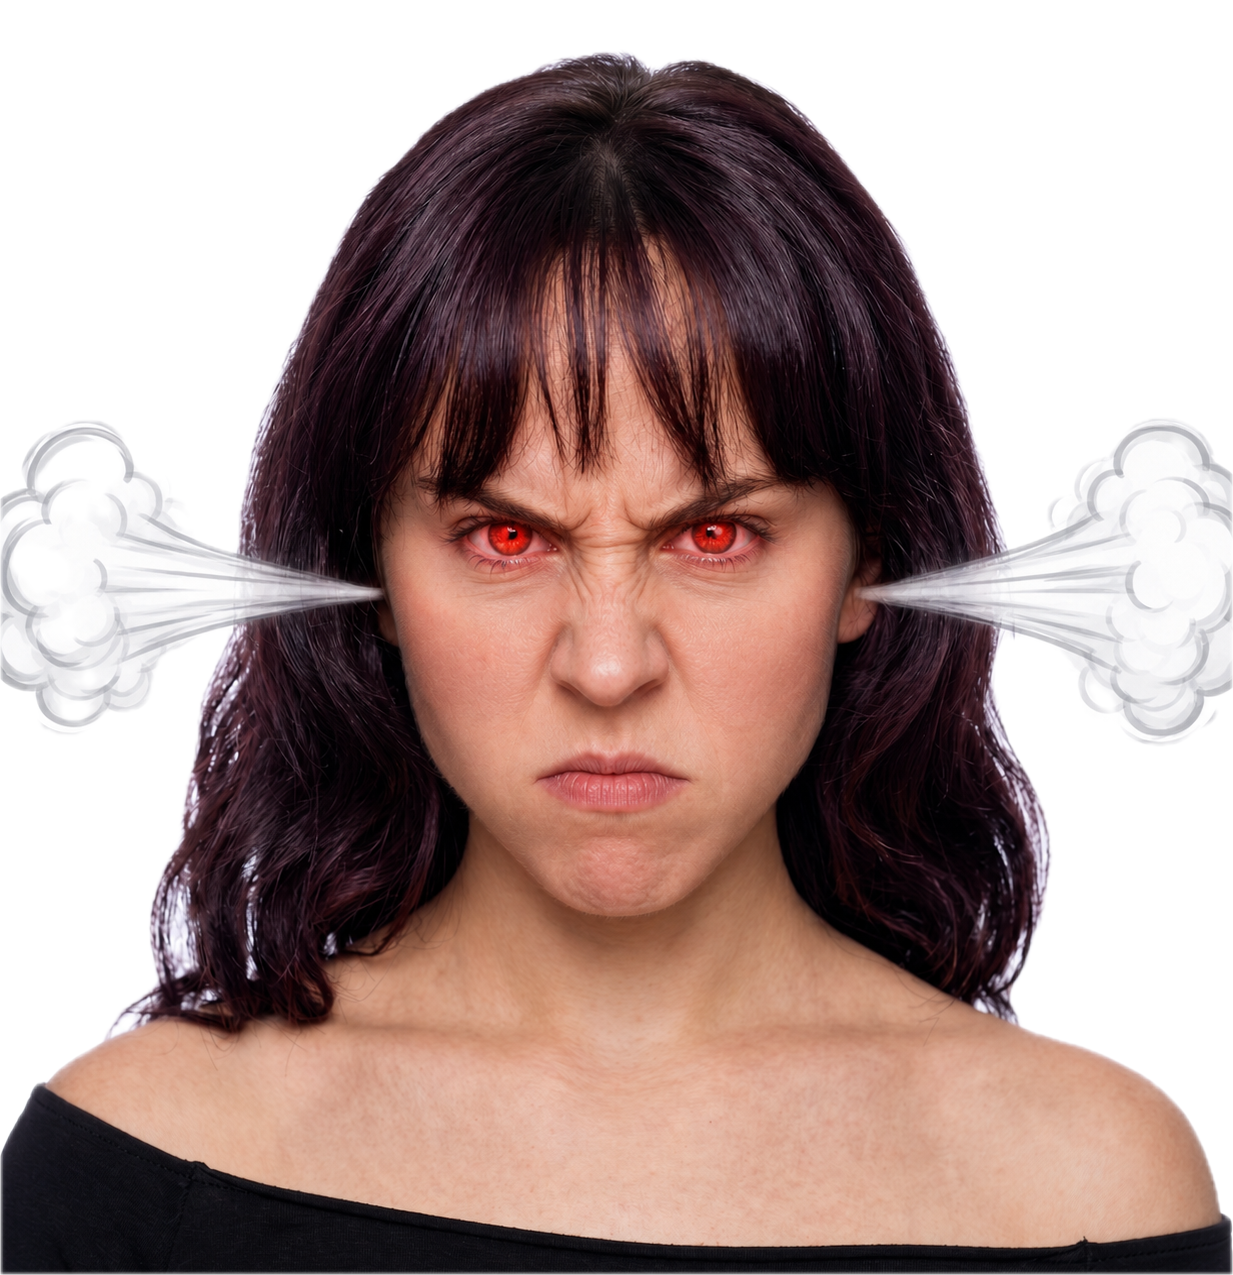
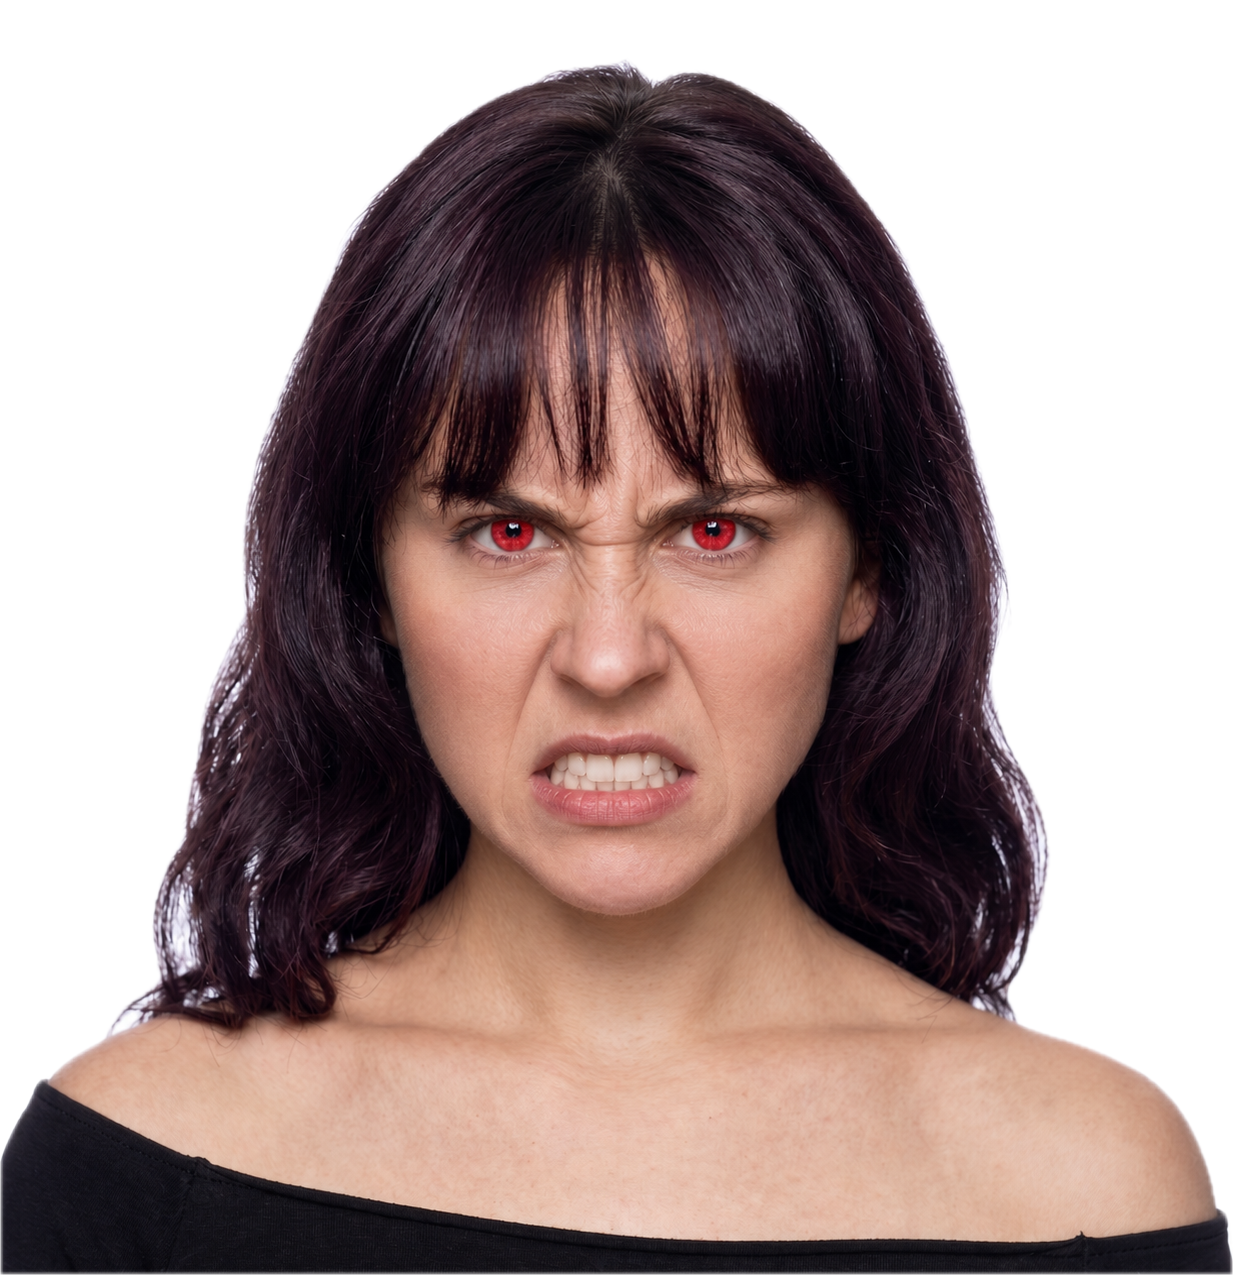
Clean angry regen with properly aligned animated steam; landing polish
- angry.png regenerated with no baked-in steam (teeth gritted, red eyes)
- steam extracted from the old angry via luminance masking so hair drops
  out, positioned at ear level; fixed .avatar img{height:100%} bleeding
  into the steam sprites which pushed them down to shoulder level
- landing: spelling fixed to 'compatible', footer strip removed, stack
  vertically centered, photo capped so fullscreen doesn't clip it

diff --git a/survey.html b/survey.html
@@ -1,1 +1,1 @@
-<!doctype html><meta charset="utf-8"><meta name="viewport" content="width=device-width,initial-scale=1"><style>*{box-sizing:border-box}body{margin:0;font-family:Arial;background:#edfaff}.stars{position:fixed;inset:0;width:100%;height:100%;object-fit:cover;z-index:-1}.map{height:160px;position:relative}.route{position:absolute;left:max(4%,52px);right:max(4%,52px);top:62px;height:20px;border-radius:12px;background:linear-gradient(#ffffff,#d9dbe2 45%,#9fa3af);border:2px solid #828692;box-shadow:0 2px 3px rgba(0,0,0,.25)}.node{position:absolute;top:72px;transform:translate(-50%,-50%);width:58px;height:58px;border-radius:50%;background:radial-gradient(circle at 35% 30%,#ffd9e9,#f772b0 30%,#f14e98 60%,#a81260 85%);border:6px solid #e9ebf2;box-shadow:0 0 0 2px #828692,0 2px 4px rgba(0,0,0,.3),inset 0 -4px 8px rgba(0,0,0,.35);display:flex;align-items:center;justify-content:center;color:#fff;font-weight:bold;font-size:22px;text-shadow:0 2px 3px rgba(0,0,0,.6)}.node.active{transform:translate(-50%,-50%) scale(1.18);box-shadow:0 0 0 2px #828692,0 0 14px 5px rgba(241,78,152,.85),0 2px 4px rgba(0,0,0,.3),inset 0 -4px 8px rgba(0,0,0,.35)}.lbl{position:absolute;top:112px;transform:translateX(-50%);font-weight:bold;font-size:14px;letter-spacing:1px;text-transform:uppercase;color:#fff;text-shadow:0 1px 0 #a81260,0 2px 4px rgba(0,0,0,.45);white-space:nowrap}.lbl.n1{left:1%;transform:none}.lbl.n5{left:auto;right:1%;transform:none}.n1{left:max(4%,52px)}.n2{left:27%}.n3{left:50%}.n4{left:73%}.n5{left:calc(100% - max(4%,52px))}.page{height:calc(100vh - 160px);position:relative}.avatar{position:absolute;left:50%;bottom:0;transform:translateX(-50%);height:78vh}.avatar img{height:100%;object-fit:contain}.steam{position:absolute;display:none;pointer-events:none;height:auto}.avatar.angry .steam{display:block}.sL{left:0;top:30.6%;width:19.5%;transform-origin:100% 50%;animation:puffL 1s ease-in-out infinite}.sR{left:79.9%;top:31.4%;width:20.1%;transform-origin:0 50%;animation:puffR 1s ease-in-out infinite;animation-delay:.45s}@keyframes puffL{50%{transform:scale(1.2) translateX(-3%)}}@keyframes puffR{50%{transform:scale(1.2) translateX(3%)}}.card{position:absolute;right:7%;top:14%;width:280px;padding:17px;background:#ffd9e9;border:3px solid #f14e98;border-radius:18px}.card input{width:100%;padding:10px;margin:5px 0 13px;border:2px solid #f7a8cc;border-radius:8px}.card button{width:100%;padding:13px;background:#f14e98;color:white;border:0;border-radius:10px;font-weight:bold}.moods{position:absolute;left:5%;bottom:5%;padding:12px;background:#ffd9e9;border:3px solid #f14e98;border-radius:15px}.moods button{margin:3px;border-radius:7px;border:2px solid #f14e98;background:white;padding:7px;cursor:pointer}.moods button.on{background:#f14e98;color:#fff}</style><video class="stars" autoplay muted loop playsinline><source src="stars.mp4"></video><nav class="map"><div class="route"></div><i class="node n1 active">1</i><i class="node n2">2</i><i class="node n3">3</i><i class="node n4">4</i><i class="node n5">5</i><em class="lbl n1">astrology</em><em class="lbl n2">book test</em><em class="lbl n3">swaggy genius</em><em class="lbl n4">height</em><em class="lbl n5">final</em></nav><main class="page"><div class="avatar" id="av"><img id="anna" src="assets/portrait-cutout.png"><img class="steam sL" src="assets/steam-left.png" alt=""><img class="steam sR" src="assets/steam-right.png" alt=""></div><form class="card"><b>BIRTH DATE</b><input placeholder="MM / DD / YYYY"><b>BIRTH TIME</b><input placeholder="HH:MM AM / PM"><b>BIRTH LOCATION</b><input placeholder="start typing a city"><button>NEXT →</button></form><div class="moods">EMOTION BETA<br><button type="button" class="on" data-img="portrait-cutout">neutral</button><button type="button" data-img="love">♥ love</button><button type="button" data-img="sad">sad</button><button type="button" data-img="scared">scared</button><button type="button" data-img="angry">😤 angry</button></div></main><script>document.querySelectorAll('.moods button').forEach(b=>b.addEventListener('click',()=>{document.getElementById('anna').src='assets/'+b.dataset.img+'.png';document.getElementById('av').classList.toggle('angry',b.dataset.img==='angry');document.querySelectorAll('.moods button').forEach(x=>x.classList.remove('on'));b.classList.add('on')}));var h=location.hash.slice(1);if(h){var hb=document.querySelector('.moods button[data-img="'+h+'"]');if(hb)hb.click()}</script>
+<!doctype html><meta charset="utf-8"><meta name="viewport" content="width=device-width,initial-scale=1"><style>*{box-sizing:border-box}body{margin:0;font-family:Arial;background:#edfaff}.stars{position:fixed;inset:0;width:100%;height:100%;object-fit:cover;z-index:-1}.map{height:160px;position:relative}.route{position:absolute;left:max(4%,52px);right:max(4%,52px);top:62px;height:20px;border-radius:12px;background:linear-gradient(#ffffff,#d9dbe2 45%,#9fa3af);border:2px solid #828692;box-shadow:0 2px 3px rgba(0,0,0,.25)}.node{position:absolute;top:72px;transform:translate(-50%,-50%);width:58px;height:58px;border-radius:50%;background:radial-gradient(circle at 35% 30%,#ffd9e9,#f772b0 30%,#f14e98 60%,#a81260 85%);border:6px solid #e9ebf2;box-shadow:0 0 0 2px #828692,0 2px 4px rgba(0,0,0,.3),inset 0 -4px 8px rgba(0,0,0,.35);display:flex;align-items:center;justify-content:center;color:#fff;font-weight:bold;font-size:22px;text-shadow:0 2px 3px rgba(0,0,0,.6)}.node.active{transform:translate(-50%,-50%) scale(1.18);box-shadow:0 0 0 2px #828692,0 0 14px 5px rgba(241,78,152,.85),0 2px 4px rgba(0,0,0,.3),inset 0 -4px 8px rgba(0,0,0,.35)}.lbl{position:absolute;top:112px;transform:translateX(-50%);font-weight:bold;font-size:14px;letter-spacing:1px;text-transform:uppercase;color:#fff;text-shadow:0 1px 0 #a81260,0 2px 4px rgba(0,0,0,.45);white-space:nowrap}.lbl.n1{left:1%;transform:none}.lbl.n5{left:auto;right:1%;transform:none}.n1{left:max(4%,52px)}.n2{left:27%}.n3{left:50%}.n4{left:73%}.n5{left:calc(100% - max(4%,52px))}.page{height:calc(100vh - 160px);position:relative}.avatar{position:absolute;left:50%;bottom:0;transform:translateX(-50%);height:78vh}.avatar img{height:100%;object-fit:contain}.avatar img.steam{position:absolute;display:none;pointer-events:none;height:auto;object-fit:unset}.avatar.angry .steam{display:block}.sL{left:4.7%;top:35.9%;width:24.3%;transform-origin:95% 44%;animation:puffL 1s ease-in-out infinite}.sR{left:71.6%;top:36.1%;width:22.5%;transform-origin:3% 42%;animation:puffR 1s ease-in-out infinite;animation-delay:.45s}@keyframes puffL{50%{transform:scale(1.2) translateX(-3%)}}@keyframes puffR{50%{transform:scale(1.2) translateX(3%)}}.card{position:absolute;right:7%;top:14%;width:280px;padding:17px;background:#ffd9e9;border:3px solid #f14e98;border-radius:18px}.card input{width:100%;padding:10px;margin:5px 0 13px;border:2px solid #f7a8cc;border-radius:8px}.card button{width:100%;padding:13px;background:#f14e98;color:white;border:0;border-radius:10px;font-weight:bold}.moods{position:absolute;left:5%;bottom:5%;padding:12px;background:#ffd9e9;border:3px solid #f14e98;border-radius:15px}.moods button{margin:3px;border-radius:7px;border:2px solid #f14e98;background:white;padding:7px;cursor:pointer}.moods button.on{background:#f14e98;color:#fff}</style><video class="stars" autoplay muted loop playsinline><source src="stars.mp4"></video><nav class="map"><div class="route"></div><i class="node n1 active">1</i><i class="node n2">2</i><i class="node n3">3</i><i class="node n4">4</i><i class="node n5">5</i><em class="lbl n1">astrology</em><em class="lbl n2">book test</em><em class="lbl n3">swaggy genius</em><em class="lbl n4">height</em><em class="lbl n5">final</em></nav><main class="page"><div class="avatar" id="av"><img id="anna" src="assets/portrait-cutout.png"><img class="steam sL" src="assets/steam-left.png" alt=""><img class="steam sR" src="assets/steam-right.png" alt=""></div><form class="card"><b>BIRTH DATE</b><input placeholder="MM / DD / YYYY"><b>BIRTH TIME</b><input placeholder="HH:MM AM / PM"><b>BIRTH LOCATION</b><input placeholder="start typing a city"><button>NEXT →</button></form><div class="moods">EMOTION BETA<br><button type="button" class="on" data-img="portrait-cutout">neutral</button><button type="button" data-img="love">♥ love</button><button type="button" data-img="sad">sad</button><button type="button" data-img="scared">scared</button><button type="button" data-img="angry">😤 angry</button></div></main><script>document.querySelectorAll('.moods button').forEach(b=>b.addEventListener('click',()=>{document.getElementById('anna').src='assets/'+b.dataset.img+'.png';document.getElementById('av').classList.toggle('angry',b.dataset.img==='angry');document.querySelectorAll('.moods button').forEach(x=>x.classList.remove('on'));b.classList.add('on')}));var h=location.hash.slice(1);if(h){var hb=document.querySelector('.moods button[data-img="'+h+'"]');if(hb)hb.click()}</script>

diff --git a/index.html b/index.html
@@ -1,1 +1,1 @@
-<!doctype html><meta charset="utf-8"><meta name="viewport" content="width=device-width,initial-scale=1"><title>Astrological Anna</title><style>*{box-sizing:border-box}body{margin:0;font-family:Arial;background:#edfaff}.stars{position:fixed;inset:0;width:100%;height:100%;object-fit:cover;z-index:-1}h1{text-align:center;margin:26px 12px 10px;font-size:min(6vw,44px);letter-spacing:2px;text-transform:uppercase;color:#fff;text-shadow:0 2px 0 #a81260,0 4px 10px rgba(0,0,0,.35),-2px 0 0 #f14e98,2px 0 0 #f14e98}.photo{position:relative;width:min(78vw,110vh);margin:8px auto 120px;border:14px solid #fff;box-shadow:0 10px 30px rgba(0,0,0,.35);transform:rotate(-2deg);background:#fff}.photo img{width:100%;display:block}.cut{position:absolute;inset:0;background:#fff;clip-path:polygon(26% 16%,33% 15%,39% 19%,41% 27%,39% 35%,36% 42%,40% 47%,43% 56%,41% 66%,43% 78%,41% 90%,42% 100%,0% 100%,0% 76%,1% 58%,0% 49%,8% 47%,13% 44%,11% 38%,16% 34%,20% 28%,22% 21%)}.note{position:absolute;left:3%;top:4%;font-size:min(3vw,26px);font-weight:bold;color:#f14e98;transform:rotate(-7deg);text-shadow:0 1px 0 #fff,0 0 8px #fff}.arrow{position:absolute;inset:0;width:100%;height:100%;pointer-events:none}footer{position:fixed;left:0;right:0;bottom:0;padding:12px;text-align:center;background:rgba(255,217,233,.94);border-top:3px solid #f14e98}.candy{display:inline-block;padding:14px 46px;font-size:24px;font-weight:bold;font-family:'Arial Rounded MT Bold',Arial;color:#fff;text-decoration:none;letter-spacing:1px;border-radius:26px;background:linear-gradient(180deg,#fbc0dc 0%,#ef7ab8 30%,#d63a90 55%,#c22a7d 100%);border:3px solid #f7c3dd;box-shadow:0 4px 0 #8d1758,0 7px 12px rgba(0,0,0,.3),inset 0 2px 3px rgba(255,255,255,.7);text-shadow:2px 2px 0 #a81260,-2px 2px 0 #a81260,2px -2px 0 #a81260,-2px -2px 0 #a81260,0 3px 4px rgba(0,0,0,.35)}.candy:active{transform:translateY(3px);box-shadow:0 1px 0 #8d1758,0 3px 6px rgba(0,0,0,.3),inset 0 2px 3px rgba(255,255,255,.7)}</style><video class="stars" autoplay muted loop playsinline><source src="stars.mp4"></video><h1>Anna doesn't want to date you</h1><div class="photo"><img src="assets/party-photo.jpg" alt="Anna at a party"><div class="cut"></div><svg class="arrow" viewBox="0 0 100 75" preserveAspectRatio="none"><path d="M16 10 Q 20 22 27 27" fill="none" stroke="#f14e98" stroke-width="1.1" stroke-linecap="round"/><path d="M27 27 l-3.5 -0.6 M27 27 l-0.4 -3.6" fill="none" stroke="#f14e98" stroke-width="1.1" stroke-linecap="round"/></svg><em class="note">this could be you</em></div><footer><a class="candy" href="survey.html">see if you're compatuble</a></footer>
+<!doctype html><meta charset="utf-8"><meta name="viewport" content="width=device-width,initial-scale=1"><title>Astrological Anna</title><style>*{box-sizing:border-box}body{margin:0;font-family:Arial;background:#edfaff;min-height:100vh;display:flex;flex-direction:column;justify-content:center;padding-bottom:100px}.stars{position:fixed;inset:0;width:100%;height:100%;object-fit:cover;z-index:-1}h1{text-align:center;margin:0 12px 18px;font-size:min(6vw,44px);letter-spacing:2px;text-transform:uppercase;color:#fff;text-shadow:0 2px 0 #a81260,0 4px 10px rgba(0,0,0,.35),-2px 0 0 #f14e98,2px 0 0 #f14e98}.photo{position:relative;width:min(78vw,1100px,calc((100vh - 300px)*1.3333));margin:0 auto;border:14px solid #fff;box-shadow:0 10px 30px rgba(0,0,0,.35);transform:rotate(-2deg);background:#fff}.photo img{width:100%;display:block}.cut{position:absolute;inset:0;background:#fff;clip-path:polygon(26% 16%,33% 15%,39% 19%,41% 27%,39% 35%,36% 42%,40% 47%,43% 56%,41% 66%,43% 78%,41% 90%,42% 100%,0% 100%,0% 76%,1% 58%,0% 49%,8% 47%,13% 44%,11% 38%,16% 34%,20% 28%,22% 21%)}.note{position:absolute;left:3%;top:4%;font-size:min(3vw,26px);font-weight:bold;color:#f14e98;transform:rotate(-7deg);text-shadow:0 1px 0 #fff,0 0 8px #fff}.arrow{position:absolute;inset:0;width:100%;height:100%;pointer-events:none}footer{position:fixed;left:0;right:0;bottom:0;padding:16px;text-align:center}.candy{display:inline-block;padding:14px 46px;font-size:24px;font-weight:bold;font-family:'Arial Rounded MT Bold',Arial;color:#fff;text-decoration:none;letter-spacing:1px;border-radius:26px;background:linear-gradient(180deg,#fbc0dc 0%,#ef7ab8 30%,#d63a90 55%,#c22a7d 100%);border:3px solid #f7c3dd;box-shadow:0 4px 0 #8d1758,0 7px 12px rgba(0,0,0,.3),inset 0 2px 3px rgba(255,255,255,.7);text-shadow:2px 2px 0 #a81260,-2px 2px 0 #a81260,2px -2px 0 #a81260,-2px -2px 0 #a81260,0 3px 4px rgba(0,0,0,.35)}.candy:active{transform:translateY(3px);box-shadow:0 1px 0 #8d1758,0 3px 6px rgba(0,0,0,.3),inset 0 2px 3px rgba(255,255,255,.7)}</style><video class="stars" autoplay muted loop playsinline><source src="stars.mp4"></video><h1>Anna doesn't want to date you</h1><div class="photo"><img src="assets/party-photo.jpg" alt="Anna at a party"><div class="cut"></div><svg class="arrow" viewBox="0 0 100 75" preserveAspectRatio="none"><path d="M16 10 Q 20 22 27 27" fill="none" stroke="#f14e98" stroke-width="1.1" stroke-linecap="round"/><path d="M27 27 l-3.5 -0.6 M27 27 l-0.4 -3.6" fill="none" stroke="#f14e98" stroke-width="1.1" stroke-linecap="round"/></svg><em class="note">this could be you</em></div><footer><a class="candy" href="survey.html">see if you're compatible</a></footer>
